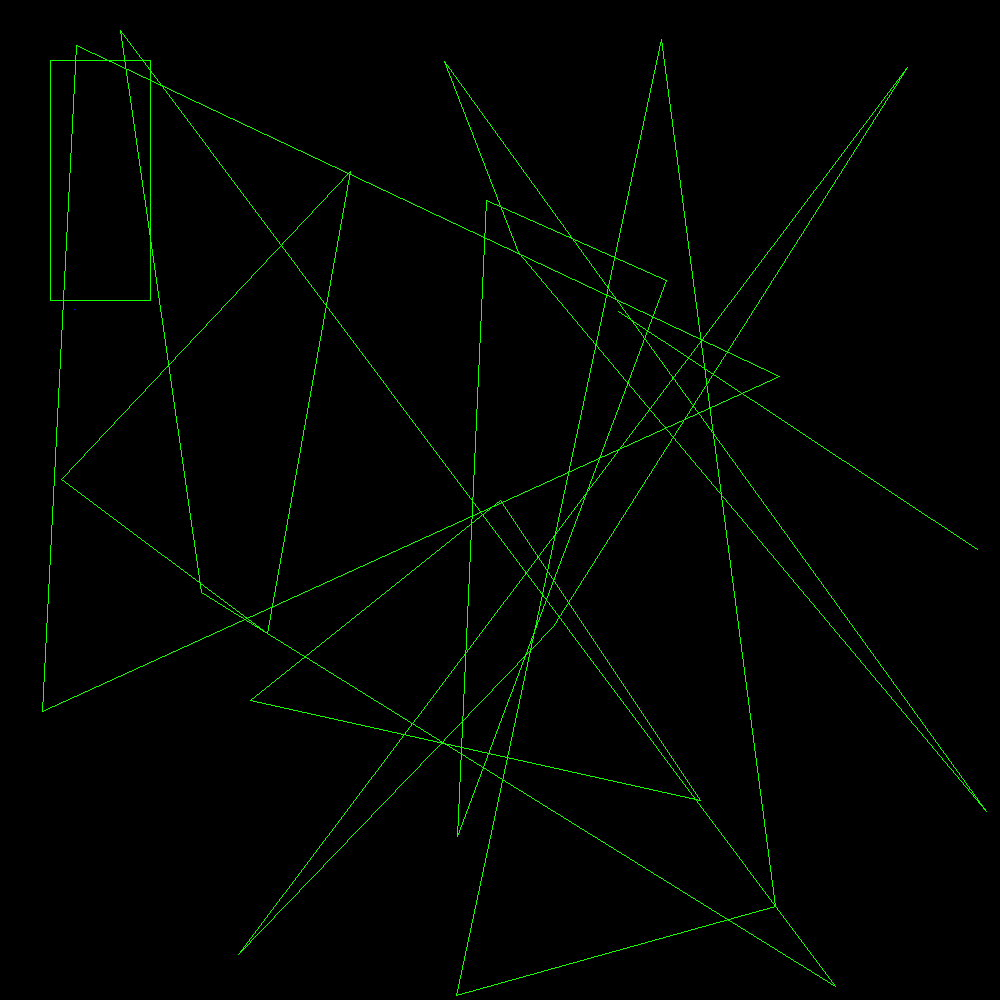
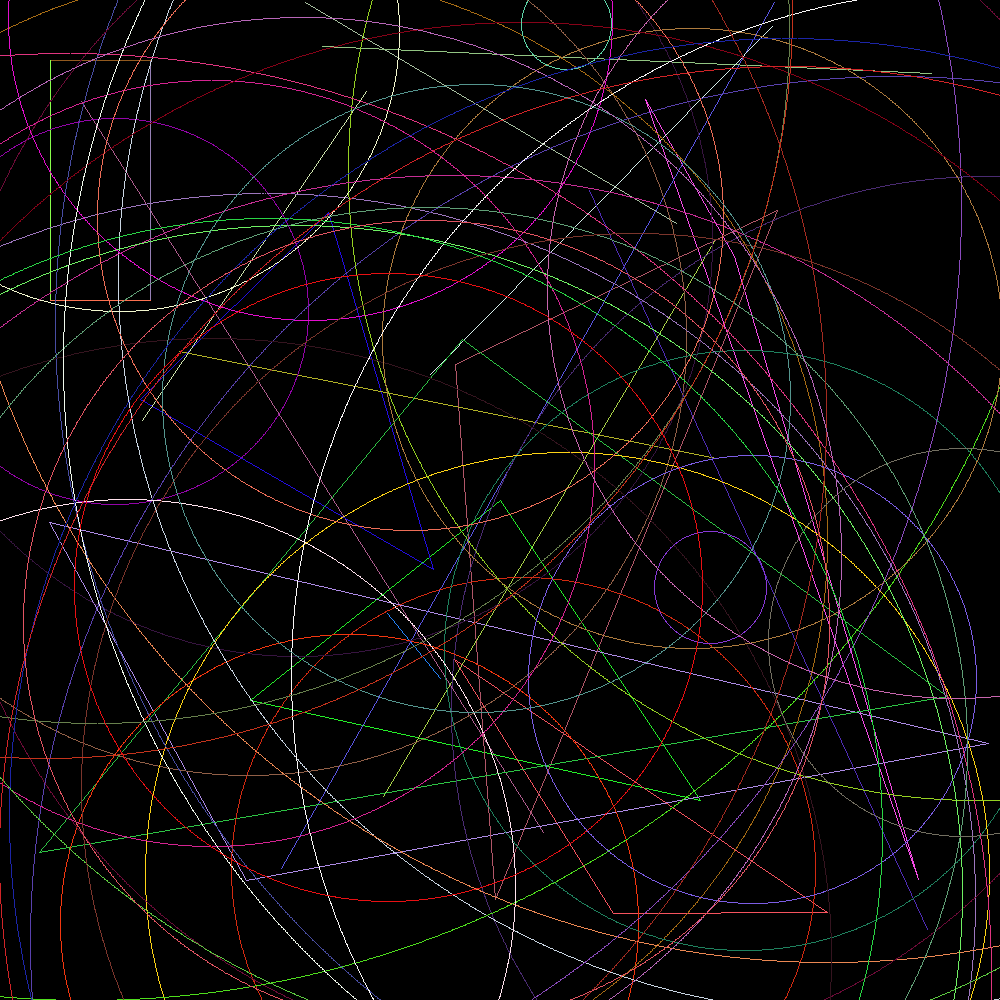
add the circle funtions and fx the rondom of colors

diff --git a/src/geometrical_shapes.rs b/src/geometrical_shapes.rs
@@ -1,18 +1,23 @@
 use rand::Rng;
 use raster::Color;
 
-// Traits
 pub trait Drawable {
-    fn draw(&self, image: &mut impl Displayable);
-    fn color(&self) -> Color;
+    fn draw(&self, img: &mut impl Displayable);
+
+    fn color(&self) -> Color {
+        let mut rng = rand::rng();
+        Color::rgb(rng.random::<u8>(), rng.random::<u8>(), rng.random::<u8>())
+    }
+
+    fn draw_with_color(&self, img: &mut impl Displayable, _color: &Color) {
+        self.draw(img);
+    }
 }
 
 pub trait Displayable {
     fn display(&mut self, x: i32, y: i32, color: Color);
 }
 
-
-// Structures
 #[derive(Clone, Copy)]
 pub struct Point {
     x: i32,
@@ -60,10 +65,6 @@ impl Drawable for Point {
     fn draw(&self, image: &mut impl Displayable) {
         image.display(self.x, self.y, self.color());
     }
-
-    fn color(&self) -> Color {
-        Color::hex("#2600ffff").unwrap()
-    }
 }
 
 impl Line {
@@ -88,19 +89,34 @@ impl Drawable for Line {
 
         let dx = (x2 - x1).abs();
         let dy = (y2 - y1).abs();
+        let color = self.color();
 
         let steps = dx.max(dy);
 
         for i in 0..=steps {
-            let t = i as f32 / steps as f32;
-            let x = x1 + ((x2 - x1) as f32 * t).round() as i32;
-            let y = y1 + ((y2 - y1) as f32 * t).round() as i32;
-            image.display(x, y, self.color());
+            let t = (i as f32) / (steps as f32);
+            let x = x1 + ((((x2 - x1) as f32) * t).round() as i32);
+            let y = y1 + ((((y2 - y1) as f32) * t).round() as i32);
+            image.display(x, y, color.clone());
         }
     }
+    fn draw_with_color(&self, img: &mut impl Displayable, color: &Color) {
+        let x1 = self.p1.x;
+        let y1 = self.p1.y;
+        let x2 = self.p2.x;
+        let y2 = self.p2.y;
 
-    fn color(&self) -> Color {
-        Color::hex("#15ff00ff").unwrap()
+        let dx = (x2 - x1).abs();
+        let dy = (y2 - y1).abs();
+
+        let steps = dx.max(dy);
+
+        for i in 0..=steps {
+            let t = (i as f32) / (steps as f32);
+            let x = x1 + ((((x2 - x1) as f32) * t).round() as i32);
+            let y = y1 + ((((y2 - y1) as f32) * t).round() as i32);
+            img.display(x, y, color.clone());
+        }
     }
 }
 
@@ -119,19 +135,14 @@ impl Triangle {
             p3: Point::random(max_width, max_height),
         }
     }
-    
 }
 
 impl Drawable for Triangle {
     fn draw(&self, image: &mut impl Displayable) {
-
-        Line::new(&self.p1, &self.p2).draw(image);
-        Line::new(&self.p2, &self.p3).draw(image);
-        Line::new(&self.p3, &self.p1).draw(image);
-    }
-
-    fn color(&self) -> Color {
-        Color::hex("#ffffffff").unwrap()
+        let color = self.color();
+        Line::new(&self.p1, &self.p2).draw_with_color(image, &color);
+        Line::new(&self.p2, &self.p3).draw_with_color(image, &color);
+        Line::new(&self.p3, &self.p1).draw_with_color(image, &color);
     }
 }
 
@@ -150,8 +161,42 @@ impl Drawable for Rectangle {
         Line::new(&self.p2, &p4).draw(image);
         Line::new(&p4, &self.p1).draw(image);
     }
+}
+impl Circle {
+    pub fn new(center: Point, radius: i32) -> Self {
+        Self { center, radius }
+    }
 
-    fn color(&self) -> Color {
-        Color::hex("#ff0000ff").unwrap()
+    pub fn random(width: i32, height: i32) -> Self {
+        let center = Point::random(width, height);
+        let edge = Point::random(width, height);
+        let radius = (
+            ((edge.x - center.x).pow(2) + (edge.y - center.y).pow(2)) as f32
+        ).sqrt() as i32;
+        Self::new(center, radius)
+    }
+}
+
+impl Drawable for Circle {
+    fn draw(&self, image: &mut impl Displayable) {
+        use std::f32::consts::PI;
+
+        let color = self.color();
+        let cx = self.center.x as f32;
+        let cy = self.center.y as f32;
+        let r = self.radius as f32;
+
+        let mut steps = (2.0 * PI * r).round() as i32;
+        if steps <= 0 {
+            steps = 1;
+        }
+
+        for i in 0..=steps {
+            let theta = ((i as f32) * 2.0 * PI) / (steps as f32);
+            let x = cx + r * theta.cos();
+            let y = cy + r * theta.sin();
+
+            image.display(x.round() as i32, y.round() as i32, color.clone());
+        }
     }
 }

diff --git a/src/main.rs b/src/main.rs
@@ -30,14 +30,14 @@ for _ in 0..15 {
     let shape_type = rng.random_range(1..=2);
 
     match shape_type {
-        // 0 => {
-        //     let p = gs::Point::random(image.width, image.height);
-        //     p.draw(&mut image);
-        // }
-        // 1 => {
-        //     let l = gs::Line::random(image.width, image.height);
-        //     l.draw(&mut image);
-        // }
+        0 => {
+            let p = gs::Point::random(image.width, image.height);
+            p.draw(&mut image);
+        }
+        1 => {
+            let l = gs::Line::random(image.width, image.height);
+            l.draw(&mut image);
+        }
         2 => {
             let c = gs::Triangle::random(image.width, image.height);
             c.draw(&mut image);
@@ -46,9 +46,9 @@ for _ in 0..15 {
     }
 }
 
-    // for _ in 1..50 {
-    //     gs::Circle::random(image.width, image.height).draw(&mut image);
-    // }
+    for _ in 1..50 {
+        gs::Circle::random(image.width, image.height).draw(&mut image);
+    }
 
     raster::save(&image, "image.png").unwrap();
 }
